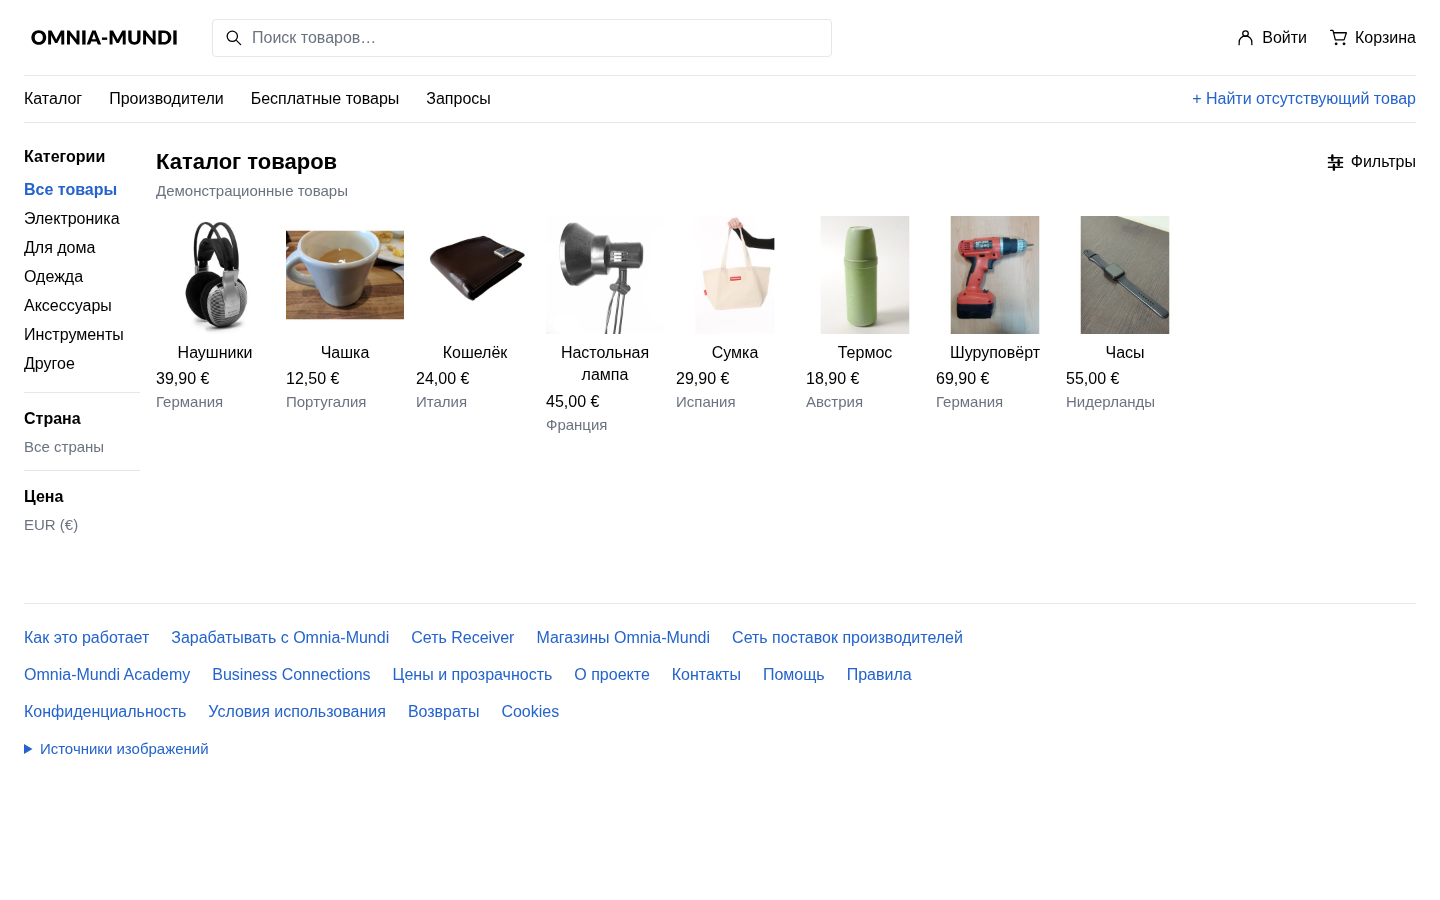
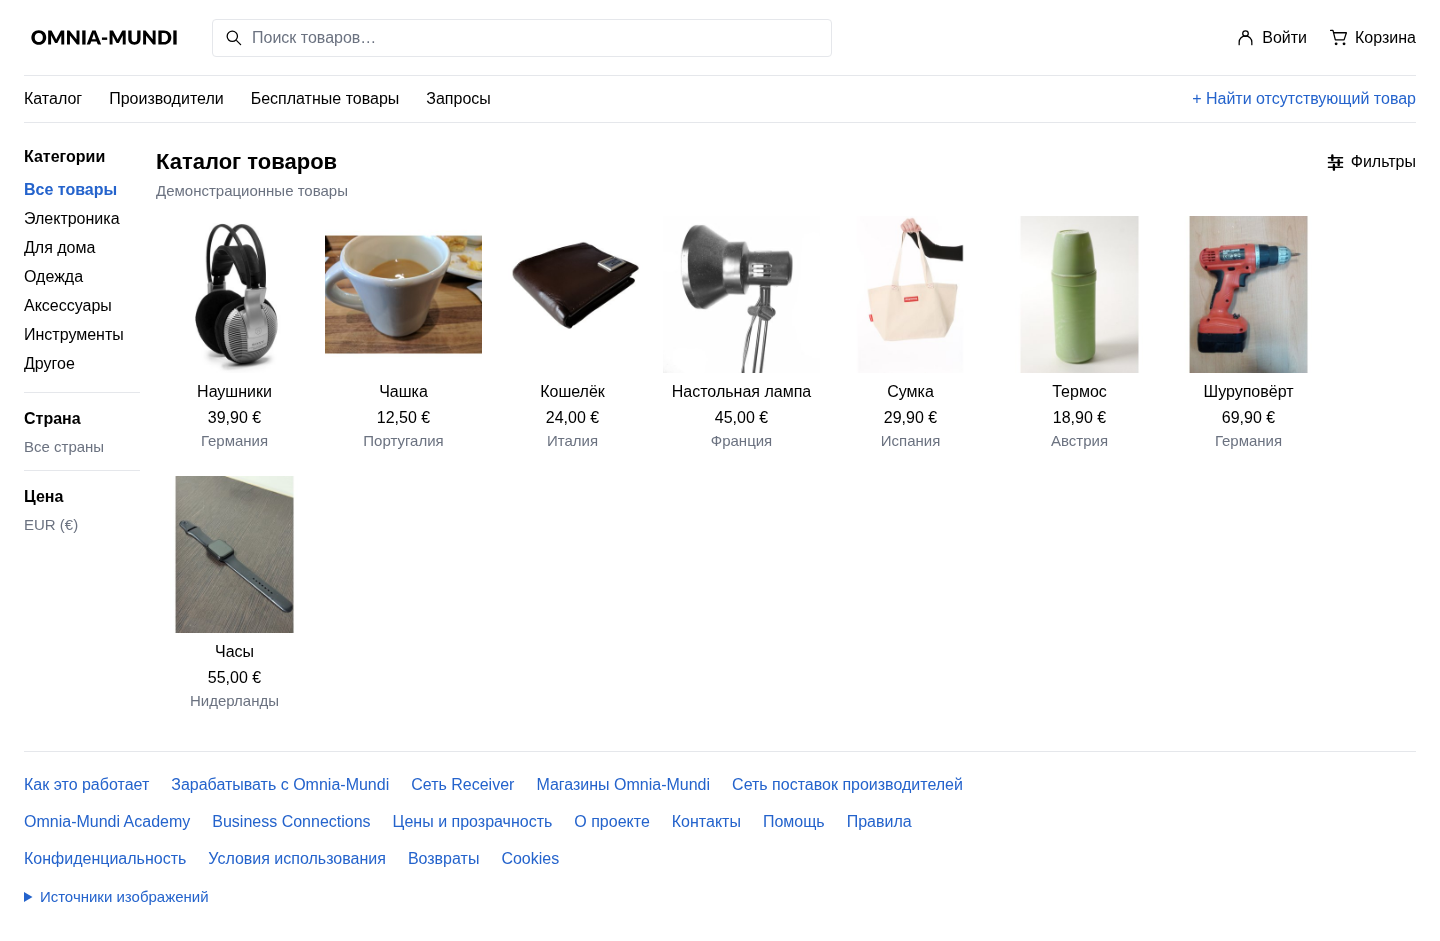
Validate 157px cards with all text centered and refresh screenshots

diff --git a/tests/homepage.py b/tests/homepage.py
@@ -14,20 +14,22 @@ args = parser.parse_args()
 
 def assert_product_alignment(page):
     products = page.locator('.products article').evaluate_all("""(articles)=>articles.map(article=>{
-        const title=article.querySelector('h2');
         const image=article.querySelector('img').getBoundingClientRect();
-        const box=title.getBoundingClientRect();
-        const range=document.createRange(); range.selectNodeContents(title);
-        return {name:title.textContent, align:getComputedStyle(title).textAlign,
-            imageCenter:image.x+image.width/2, titleCenter:box.x+box.width/2,
-            lines:[...range.getClientRects()].map(line=>line.x+line.width/2),
-            amounts:[...article.querySelectorAll('.price,.country')].map(n=>({align:getComputedStyle(n).textAlign,x:n.getBoundingClientRect().x,width:n.getBoundingClientRect().width}))};
+        return {imageCenter:image.x+image.width/2,
+            texts:[...article.querySelectorAll('h2,.price,.country')].map(node=>{
+                const box=node.getBoundingClientRect();
+                const range=document.createRange(); range.selectNodeContents(node);
+                return {text:node.textContent, align:getComputedStyle(node).textAlign,
+                    center:box.x+box.width/2,
+                    lines:[...range.getClientRects()].map(line=>line.x+line.width/2)};
+            })};
     })""")
     for product in products:
-        assert product['align'] == 'center', product
-        assert abs(product['titleCenter'] - product['imageCenter']) < 1, product
-        assert product['lines'] and all(abs(center - product['imageCenter']) < 1 for center in product['lines']), product
-        assert all(n['align'] == 'center' and abs(n['x'] + n['width']/2 - product['imageCenter']) < 1 for n in product['amounts']), product
+        assert len(product['texts']) == 3, product
+        for text in product['texts']:
+            assert text['align'] == 'center', text
+            assert abs(text['center'] - product['imageCenter']) < 1, text
+            assert text['lines'] and all(abs(center - product['imageCenter']) < 1 for center in text['lines']), text
 
 with sync_playwright() as p:
     browser = p.chromium.launch(executable_path='/usr/bin/chromium', headless=True, args=['--no-sandbox'])

diff --git a/docs/validation-pr5-157px.md b/docs/validation-pr5-157px.md
@@ -1,0 +1,48 @@
+# PR #5 — проверка фото 157 px и центрирования всех подписей
+
+Проверена актуальная ветка `feat/readable-typography-16px` после коммитов владельца `ccf8e6f` (центрирование всех подписей), `51da67c` (карточки и фото 157×157 CSS px) и `eb6a6aa` (обновление тестов). Это последние утверждённые правила; прежние отчёты о фото 118 px и ценах/странах слева описывают архивное состояние.
+
+## Результат
+
+Полный `python3 tests/homepage.py` запущен при работающем локальном HTTP-сервере и прошёл на всех девяти ширинах. Ошибок текущего CSS не обнаружено, стили владельца не менялись. Замечание прежнего ревью о неверном ожидании left/start уже устранено владельцем в eb6a6aa. Проверка дополнена измерением **фактических строк** цены и страны, а не только их блочных рамок: computed text-align:center и отклонение центра каждой строки от центра фото менее 1 CSS px. То же проверяется для названия, включая длинное многострочное RU/EN название и «Часы».
+
+| Ширина окна | Автоматически полученное число колонок |
+| --- | --- |
+| 320 | 1 |
+| 375 | 2 |
+| 390 | 2 |
+| 430 | 2 |
+| 768 | 3 |
+| 1024 | 5 |
+| 1440 | 7 |
+| 1920 | 8 |
+| 2560 | 8 |
+
+Это результаты измерения, не фиксированные настройки. При дополнительных товарах сетка использует дальнейшее доступное пространство. На 1440 px восьмой товар естественно переходит на второй ряд; на 320 px одна колонка не вызывает горизонтального переполнения. Фото строго 157×157 CSS px на всех проверенных ширинах. Физические локальные JPEG 354×354 не менялись и покрывают отображение при плотности 2×.
+
+Сохранены размеры текста 16/15/22 px, max-width:1920px и центрирование страницы. Проверены отсутствие переполнения и обрезки, раскрытые фильтры/атрибуция, неналожение шапки, keyboard Enter/Escape и возврат фокуса, поиск/категории/пустая выдача, все будущие кнопки, источники и хеши фото, отсутствие внешних запросов и ошибок JavaScript. SVG, TXT, HTML, JS, ASSETS.md и манифест источников не менялись.
+
+## Скриншоты и сравнение
+
+Скриншоты пересозданы после новых коммитов на 320/390/430/1440/1920/2560 px; 390 и 1440 визуально просмотрены. «До» — точные PNG коммита 2d4c44a: шрифты уже увеличены, фото 118 px, центрировано только название. «После» — текущие 157 px и все подписи по центру. Это сравнение не подменяет старое сравнение типографики с main.
+
+| Экран | До размера 157 px | После |
+| --- | --- | --- |
+| 390 | [До](screenshots/thumbnail-before/homepage-390.png) | [После](screenshots/homepage-390.png) |
+| 1440 | [До](screenshots/thumbnail-before/homepage-1440.png) | [После](screenshots/homepage-1440.png) |
+| 1920 | [До](screenshots/thumbnail-before/homepage-1920.png) | [После](screenshots/homepage-1920.png) |
+
+Дополнительно: [320](screenshots/homepage-320.png), [430](screenshots/homepage-430.png), [2560](screenshots/homepage-2560.png). Кредиты фото — в [ASSETS.md](../ASSETS.md) и [README скриншотов](screenshots/README.md). Производная фотография кошелька Pixloom сохраняет CC BY-SA 4.0.
+
+## Запуск
+
+```sh
+python3 -m http.server 3010 --bind 127.0.0.1
+# В другом терминале:
+python3 tests/homepage.py
+node --check app.js
+node --check strings.ru.js
+git diff --check
+```
+
+Все проверки завершились успешно. PR #5 остаётся Draft; main не изменялась, слияние, auto-merge и публикация не выполнялись.

diff --git a/README.md b/README.md
@@ -28,7 +28,7 @@ node --check strings.ru.js
 python3 tests/homepage.py
 ```
 
-Проверяются ширины 320, 375, 390, 430, 768, 1024, 1440, 1920 и 2560 px, отсутствие горизонтального переполнения, фиксированные фото 118×118, автоматическое число колонок по доступной ширине на всех экранах, включая телефоны, локальный поиск, совместная фильтрация, пустая выдача, мобильная панель, сообщения будущих функций, Escape и возврат фокуса. По последнему решению владельца восемь товаров на 1440 px помещаются в один ряд; прежние требования четырёх колонок на компьютере и двух на телефоне отменены (см. docs/decisions/001-homepage-only.md). Полная проверка дополнительно проверяет загрузку фотографий, хеши и доступность атрибуции, отсутствие внешних запросов и ошибок JavaScript, неизменность логотипа/TXT и создаёт `docs/screenshots/homepage-1440.png` и `homepage-390.png`, `homepage-320.png`, `homepage-430.png` и `homepage-1920.png` и `homepage-2560.png`.
+Проверяются ширины 320, 375, 390, 430, 768, 1024, 1440, 1920 и 2560 px, отсутствие горизонтального переполнения, фиксированные фото 157×157, автоматическое число колонок по доступной ширине на всех экранах, включая телефоны, локальный поиск, совместная фильтрация, пустая выдача, мобильная панель, сообщения будущих функций, Escape и возврат фокуса. По последнему решению владельца восемь товаров на 1440 px помещаются в один ряд; прежние требования четырёх колонок на компьютере и двух на телефоне отменены (см. docs/decisions/001-homepage-only.md). Полная проверка дополнительно проверяет загрузку фотографий, хеши и доступность атрибуции, отсутствие внешних запросов и ошибок JavaScript, неизменность логотипа/TXT и создаёт `docs/screenshots/homepage-1440.png` и `homepage-390.png`, `homepage-320.png`, `homepage-430.png` и `homepage-1920.png` и `homepage-2560.png`.
 
 Поиск и категории работают только с демонстрационными товарами. Страна и цена — визуальные секции по заданию. Остальные кнопки показывают «Раздел находится в разработке». Нет авторизации, корзинной логики, платежей, финансов, внешних запросов страницы или сбора персональных данных. Сборка, переменные среды, миграции, тестовая БД и очистка данных не требуются.
 
@@ -50,3 +50,7 @@ python3 tests/homepage.py
 ## Issue #4 — типографика
 
 Основной текст теперь 16 CSS px, второстепенные подписи и атрибуция 15 px, заголовок каталога 22 px, включая мобильные стили. [Отчёт и сравнение «до/после»](docs/validation-issue-4.md). Браузерный тест проверяет фактические размеры текста, обрезку/переполнение, раскрытые фильтры и атрибуцию, шапку и клавиатурное управление на всех девяти ширинах.
+
+## Актуальная версия PR #5 — фото 157 px
+
+По последнему решению владельца фотографии и карточки 157×157 CSS px; название, цена и страна центрированы относительно фотографии. Количество колонок остаётся автоматическим. [Проверка и сравнение до/после](docs/validation-pr5-157px.md); этот отчёт заменяет прежние указания размера 118 px и выравнивания цены/страны слева.

diff --git a/docs/validation-issue-4.md b/docs/validation-issue-4.md
@@ -57,3 +57,7 @@
 После получения этого коммита полный браузерный тест повторён на всех девяти ширинах и прошёл. Для каждого заголовка проверяются computed `text-align:center`, совпадение центра блока с центром фото и фактическое положение **каждой строки текста** через DOM Range (допуск менее 1 CSS px). Отдельно проверено наличие «Часы», многострочность «Настольная лампа» и центрирование искусственно длинного RU/EN названия без обрезания. Для цен и стран проверены прежнее выравнивание left/start и совпадение левого края с фото. Остальные проверки типографики, адаптивности, клавиатуры и атрибуции сохранены и прошли.
 
 Пересозданы текущие скриншоты 320, 390, 430, 1440, 1920 и 2560 px. Версии 390 и 1440 визуально просмотрены. Каталог, фото 118×118, автоматическая сетка, max-width:1920px, логотип и TXT не менялись. Draft PR #5 не сливался и сайт не публиковался.
+
+## Последующее утверждённое изменение владельца: 157 px
+
+Последнее состояние и проверки описаны в [новом отчёте](validation-pr5-157px.md): фотографии и карточки 157×157 CSS px, центрированы название, цена и страна. Предыдущие записи этого отчёта о 118 px и ценах/странах слева — история проверки прежних коммитов, а не действующие требования.

diff --git a/docs/screenshots/README.md b/docs/screenshots/README.md
@@ -20,3 +20,7 @@
 Текущие скриншоты обновлены для размеров текста 16/15/22 CSS px. Исходные версии main сохранены в `typography-before/` (390, 1440 и 1920 px). [Сравнение и отчёт](../validation-issue-4.md). Изменены только размеры шрифтов; геометрия фото и алгоритм сетки сохранены.
 
 Скриншоты Issue #4 пересозданы после коммита владельца `abd7f7f`: названия товаров центрированы под фото, цены и страны сохранены слева. Тест проверяет фактические центры всех строк, в том числе «Часы» и многострочную «Настольная лампа», на всех девяти ширинах.
+
+## Текущая версия PR #5 — фото 157 px
+
+После коммитов владельца ccf8e6f/51da67c/eb6a6aa все текущие PNG пересозданы: фото и карточки 157×157 CSS px, название, цена и страна центрированы. Сравнение со старым размером 118 px сохранено отдельно в `thumbnail-before/`; старые описания выше относятся к предыдущим версиям. [Новый отчёт и сравнение](../validation-pr5-157px.md).

diff --git a/docs/screenshots/thumbnail-before/README.md b/docs/screenshots/thumbnail-before/README.md
@@ -1,0 +1,5 @@
+# До увеличения фотографий до 157 px
+
+Эти PNG побайтно извлечены из коммита `2d4c44a` ветки PR #5. В них уже увеличены шрифты (16/15/22 px), фото ещё 118×118, центрировано только название; цены/страны слева. Текущие версии находятся в родительском каталоге. [Сравнение](../../validation-pr5-157px.md).
+
+Атрибуция включённых фотографий: [ASSETS.md](../../../ASSETS.md). Кошелёк: Pixloom, [A men's wallet.jpg](https://commons.wikimedia.org/wiki/File:A_men%27s_wallet.jpg), [CC BY-SA 4.0](https://creativecommons.org/licenses/by-sa/4.0/); производная фотография сохраняет эту лицензию. Обработка: уменьшение, белые поля, JPEG-оптимизация и удаление EXIF; без ретуши. Прочие кредиты — в ASSETS.md. Права на логотип/код не перелицензируются.
